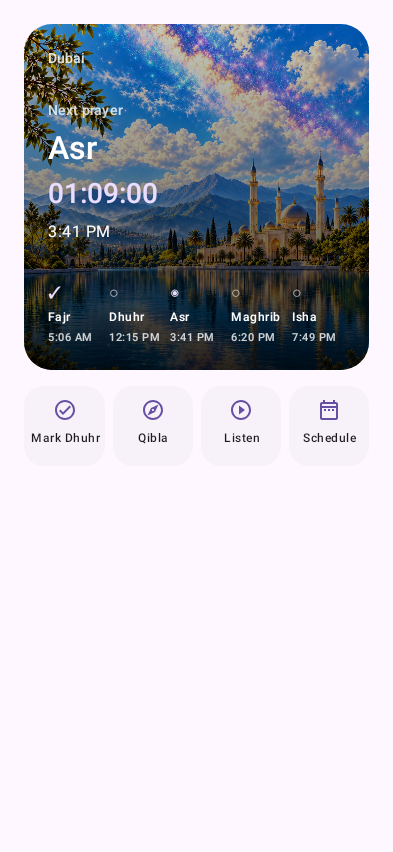
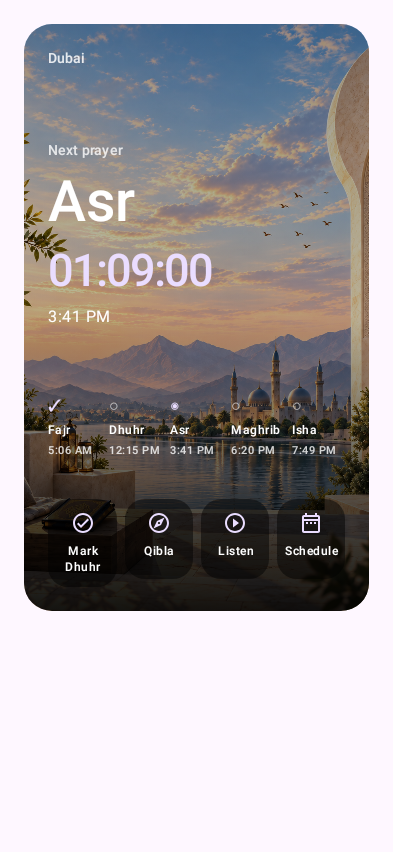
Bring Android prayer home closer to visual concept

diff --git a/app/src/main/kotlin/com/starception/submission/feature/prayertimes/LivingDayHeader.kt b/app/src/main/kotlin/com/starception/submission/feature/prayertimes/LivingDayHeader.kt
@@ -23,17 +23,15 @@ import androidx.compose.ui.layout.ContentScale
 import androidx.compose.ui.platform.LocalContext
 import androidx.compose.ui.platform.LocalDensity
 import androidx.compose.ui.res.stringResource
+import androidx.compose.ui.res.painterResource
 import androidx.compose.ui.semantics.contentDescription
 import androidx.compose.ui.semantics.heading
 import androidx.compose.ui.semantics.semantics
 import androidx.compose.ui.text.font.FontWeight
 import androidx.compose.ui.unit.dp
+import androidx.compose.ui.unit.sp
 import com.starception.submission.R
-import com.starception.submission.core.images.resources.Res
-import com.starception.submission.core.images.resources.prayer_now_insight_day
-import com.starception.submission.core.images.resources.prayer_now_insight_night
 import com.starception.submission.prayer.model.DayPrayerTimes
-import org.jetbrains.compose.resources.painterResource
 import java.time.LocalDate
 import java.time.LocalTime
 import java.time.format.DateTimeFormatter
@@ -67,31 +65,32 @@ internal fun LivingDayHeader(
     val themeAccent = MaterialTheme.colorScheme.primaryContainer
     val photoAccent = if (themeAccent.luminance() >= .35f) themeAccent else Color.White
 
-    Column(verticalArrangement = Arrangement.spacedBy(16.dp)) {
+    Column {
         Box(Modifier.fillMaxWidth().clip(RoundedCornerShape(28.dp))) {
             Image(
-                painterResource(if (isNight) Res.drawable.prayer_now_insight_night else Res.drawable.prayer_now_insight_day),
+                painterResource(if (isNight) R.drawable.prayer_widget_poster_night_moonless_hq_v4
+                    else R.drawable.prayer_widget_poster_day_no_glare_hq_v4),
                 contentDescription = null,
                 contentScale = ContentScale.Crop,
                 modifier = Modifier.matchParentSize(),
             )
             Box(Modifier.matchParentSize().background(Brush.verticalGradient(
-                listOf(Color.Black.copy(alpha = .22f), Color.Black.copy(alpha = .45f), Color.Black.copy(alpha = .86f)),
+                listOf(Color.Black.copy(alpha = .38f), Color.Black.copy(alpha = .27f), Color.Black.copy(alpha = .92f)),
             )))
             Column(Modifier.fillMaxWidth().padding(24.dp), verticalArrangement = Arrangement.spacedBy(8.dp)) {
                 Text(day?.location?.getDisplayName().orEmpty().ifBlank { stringResource(R.string.living_day_location) },
                     style = MaterialTheme.typography.labelLarge, color = Color.White.copy(alpha = .85f))
-                Spacer(Modifier.height(16.dp))
+                Spacer(Modifier.height(56.dp))
                 Text(stringResource(R.string.living_day_next), style = MaterialTheme.typography.labelLarge,
                     color = Color.White.copy(alpha = .8f))
                 Text(next?.first?.let(::display) ?: stringResource(R.string.prayer_times_title),
-                    style = MaterialTheme.typography.headlineLarge, fontWeight = FontWeight.SemiBold,
+                    style = MaterialTheme.typography.displayLarge, fontWeight = FontWeight.SemiBold,
                     color = Color.White, modifier = Modifier.semantics { heading() })
                 Text(next?.let { livingDayCountdown(now, it.second) } ?: "—",
-                    style = MaterialTheme.typography.headlineMedium.copy(fontFeatureSettings = "tnum"),
+                    style = MaterialTheme.typography.displayMedium.copy(fontFeatureSettings = "tnum", letterSpacing = (-2).sp),
                     color = photoAccent, fontWeight = FontWeight.Medium)
                 next?.let { Text(it.second.format(timeFormat), style = MaterialTheme.typography.bodyLarge, color = Color.White) }
-                Spacer(Modifier.height(20.dp))
+                Spacer(Modifier.height(48.dp))
                 // At large font sizes use rows, keeping complete names and times readable.
                 val columns = if (LocalDensity.current.fontScale > 1.3f) 2 else 5
                 prayers.chunked(columns).forEach { row ->
@@ -118,9 +117,8 @@ internal fun LivingDayHeader(
                         repeat(columns - row.size) { Spacer(Modifier.weight(1f)) }
                     }
                 }
-            }
-        }
-        val actions = listOf(
+                Spacer(Modifier.height(24.dp))
+                val actions = listOf(
             HomeAction(markable?.let { stringResource(R.string.living_day_mark, display(it.first)) }
                 ?: stringResource(R.string.living_day_salah), Icons.Outlined.CheckCircle,
                 { markable?.let { onTogglePrayer(it.first) } ?: onSchedule() }),
@@ -130,18 +128,20 @@ internal fun LivingDayHeader(
             HomeAction(stringResource(if (scheduleExpanded) R.string.living_day_close_schedule else R.string.living_day_schedule),
                 Icons.Outlined.DateRange, onSchedule),
         )
-        val actionColumns = if (LocalDensity.current.fontScale > 1.3f) 2 else 4
-        actions.chunked(actionColumns).forEach { row ->
-            Row(Modifier.fillMaxWidth(), horizontalArrangement = Arrangement.spacedBy(8.dp)) {
-                row.forEach { action ->
-                    Surface(onClick = action.onClick, modifier = Modifier.weight(1f),
-                        shape = RoundedCornerShape(20.dp), color = MaterialTheme.colorScheme.surfaceContainerLow) {
-                        Column(Modifier.padding(horizontal = 4.dp, vertical = 12.dp).heightIn(min = 56.dp),
-                            horizontalAlignment = Alignment.CenterHorizontally,
-                            verticalArrangement = Arrangement.spacedBy(8.dp)) {
-                            Icon(action.icon, contentDescription = null, tint = MaterialTheme.colorScheme.primary)
-                            Text(action.title, style = MaterialTheme.typography.labelMedium,
-                                textAlign = androidx.compose.ui.text.style.TextAlign.Center)
+                val actionColumns = if (LocalDensity.current.fontScale > 1.3f) 2 else 4
+                actions.chunked(actionColumns).forEach { row ->
+                    Row(Modifier.fillMaxWidth(), horizontalArrangement = Arrangement.spacedBy(8.dp)) {
+                        row.forEach { action ->
+                            Surface(onClick = action.onClick, modifier = Modifier.weight(1f),
+                                shape = RoundedCornerShape(20.dp), color = Color.Black.copy(alpha = .48f)) {
+                                Column(Modifier.padding(horizontal = 4.dp, vertical = 12.dp).heightIn(min = 56.dp),
+                                    horizontalAlignment = Alignment.CenterHorizontally,
+                                    verticalArrangement = Arrangement.spacedBy(8.dp)) {
+                                    Icon(action.icon, contentDescription = null, tint = photoAccent)
+                                    Text(action.title, style = MaterialTheme.typography.labelMedium, color = Color.White,
+                                        textAlign = androidx.compose.ui.text.style.TextAlign.Center)
+                                }
+                            }
                         }
                     }
                 }

diff --git a/app/src/main/kotlin/com/starception/submission/feature/prayertimes/SwipeableBigTiles.kt b/app/src/main/kotlin/com/starception/submission/feature/prayertimes/SwipeableBigTiles.kt
@@ -1840,6 +1840,20 @@ internal fun SwipeableBigTiles(
                 modifier = Modifier.weight(1f),
             )
             if (livingDayLayout) {
+                InsightPageIndicator(
+                    style = indicatorStyle,
+                    pageCount = insightPageCount,
+                    currentIndex = pagerState.currentPage % insightPageCount,
+                    progress = autoAdvanceProgress.value,
+                    onSelect = { index ->
+                        isAutomaticallySized = true
+                        setExpansionExtent(0f)
+                        carouselScope.launch {
+                            pagerState.animateScrollToPage(pagerState.currentPage + index - pagerState.currentPage % insightPageCount)
+                        }
+                    },
+                    onLongPress = {},
+                )
                 androidx.compose.material3.TextButton(onClick = {
                     if (expandedLogicalPage == null) expandInsightToPreferred(focusedLogicalPage)
                     else { isAutomaticallySized = true; setExpansionExtent(0f) }
@@ -1877,29 +1891,6 @@ internal fun SwipeableBigTiles(
             }
         }
 
-        if (livingDayLayout && !isImmersive) {
-            androidx.compose.foundation.lazy.LazyRow(
-                modifier = Modifier.fillMaxWidth().onSizeChanged { measuredTabsHeight = with(density) { it.height.toDp() } }.padding(bottom = 12.dp),
-                horizontalArrangement = Arrangement.spacedBy(8.dp),
-            ) {
-                items(pageIds.size) { index ->
-                    val labels = listOf(R.string.living_day_reading, R.string.living_day_salah,
-                        R.string.living_day_suggested, R.string.living_day_qibla)
-                    androidx.compose.material3.FilterChip(
-                        selected = pagerState.currentPage % insightPageCount == index,
-                        onClick = {
-                            isAutomaticallySized = true
-                            setExpansionExtent(0f)
-                            carouselScope.launch {
-                                pagerState.animateScrollToPage(pagerState.currentPage + index - pagerState.currentPage % insightPageCount)
-                            }
-                        },
-                        label = { Text(androidx.compose.ui.res.stringResource(labels[index])) },
-                    )
-                }
-            }
-        }
-
         val stripModifier = if (isLandscape) {
             Modifier
                 .fillMaxWidth()
@@ -1911,7 +1902,7 @@ internal fun SwipeableBigTiles(
         }
 
         BoxWithConstraints(modifier = stripModifier) {
-            val normalCardWidth = if (isLandscape || livingDayLayout) {
+            val normalCardWidth = if (isLandscape) {
                 // The split-screen home layout is already narrow enough to signal
                 // that this is a carousel through its indicator. A portrait-style
                 // peek here exposed half of the next card and clipped its copy at
@@ -1951,7 +1942,7 @@ internal fun SwipeableBigTiles(
                 ).dp
             val restingPageSpacing = if (isLandscape) 10.dp else (14f - (4f * compactProgress)).dp
             val pageSpacing = (restingPageSpacing.value * (1f - widthExpansion)).dp
-            val endContentPadding = if (isLandscape || livingDayLayout) {
+            val endContentPadding = if (isLandscape) {
                 0.dp
             } else {
                 (18f * (1f - widthExpansion)).dp

diff --git a/app/src/main/kotlin/com/starception/submission/feature/prayertimes/PrayerTimesScreen.kt b/app/src/main/kotlin/com/starception/submission/feature/prayertimes/PrayerTimesScreen.kt
@@ -3590,7 +3590,7 @@ fun PrayerTimesScreen(
                                                     showCompassPopup = true
                                                 },
                                                 timeOffsets = storedOffsets,
-                                                portraitStripHeight = (220f * fontScale.coerceAtLeast(1f)).dp.coerceAtMost(portraitImmersiveInsightHeight),
+                                                portraitStripHeight = (300f * fontScale.coerceAtLeast(1f)).dp.coerceAtMost(portraitImmersiveInsightHeight),
                                                 portraitExpandedStripHeight = portraitImmersiveInsightHeight,
                                                 // Expanded prayer mode scrolls naturally; keep Insights at its
                                                 // normal size instead of squeezing the carousel to fund row 3.

diff --git a/docs/ANDROID_LIVING_DAY_HOME.md b/docs/ANDROID_LIVING_DAY_HOME.md
@@ -5,11 +5,12 @@ The existing landscape layout continues to provide its two-column dashboard.
 
 ## Structure
 
-- A day/night prayer image, location, next obligatory prayer, `HH:mm:ss`
-  countdown, and five-prayer status ribbon.
-- Actions for marking an elapsed prayer, opening the compass, playing/pausing
-  today's reading, and opening the complete schedule.
-- A full-width content deck with Reading, Salah, For you, and Qibla tabs.
+- A tall day/night prayer scene with location, next obligatory prayer,
+  `HH:mm:ss` countdown, and five-prayer status ribbon.
+- Actions inside the scene for marking an elapsed prayer, opening the compass,
+  playing/pausing today's reading, and opening the complete schedule.
+- A content deck with Reading, Salah, For you, and Qibla pages. A small page
+  indicator and the next card edge show that the deck can be swiped.
   Content stays selected until the user changes it; this deck does not auto-page.
 - The existing editable schedule appears on request and scrolls into view.
   Prayer notifications, adhan controls, adjustments, and location/weather
